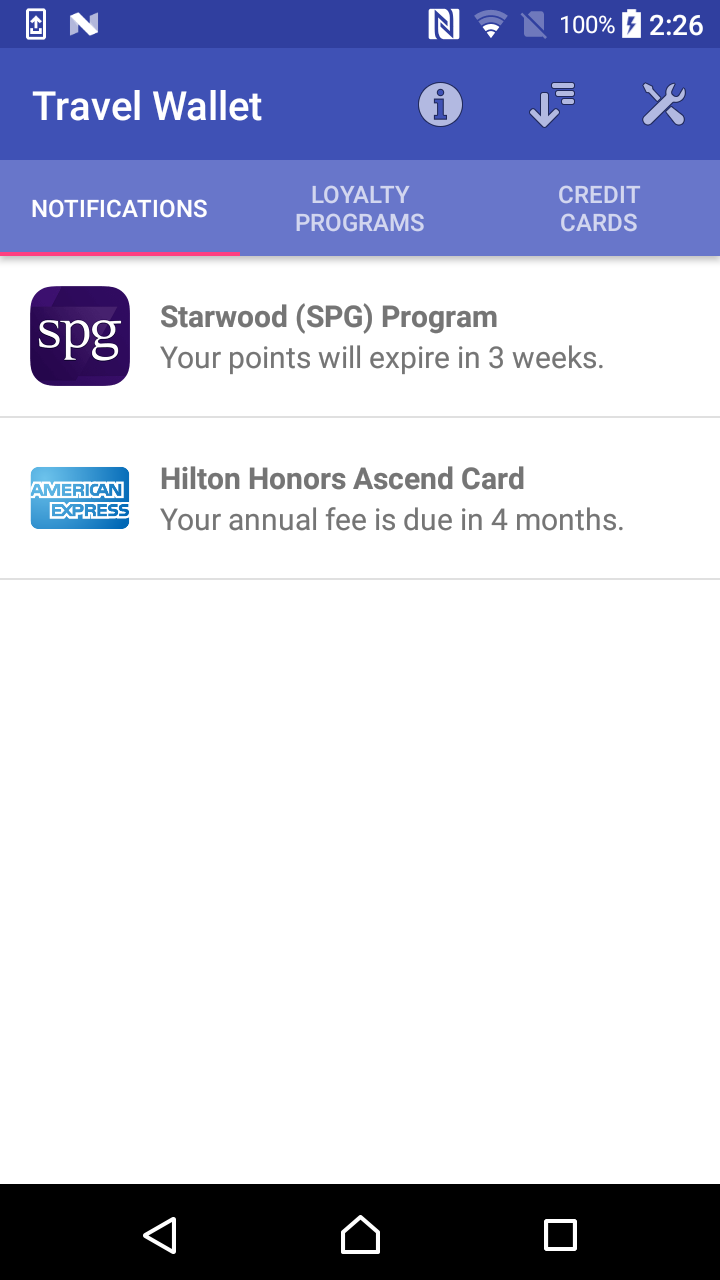
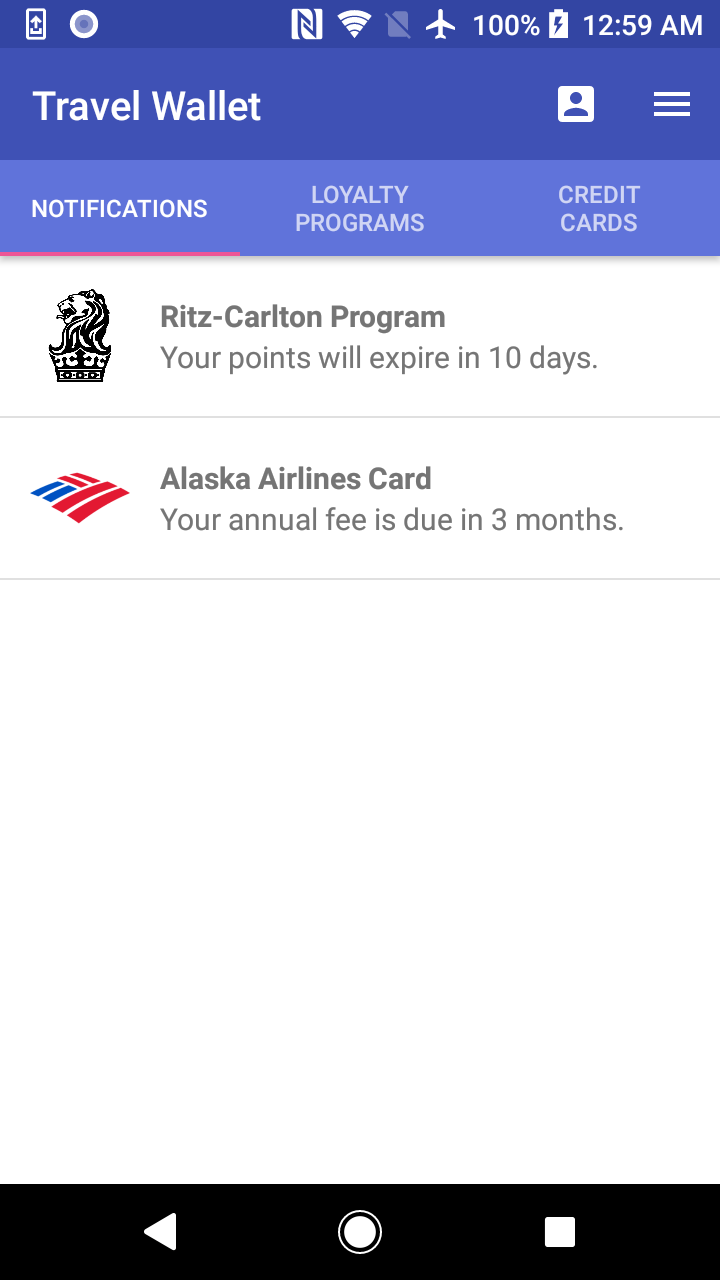
Update screenshots, fix notification month plurals, fix summary next date calculations

diff --git a/app/src/main/java/com/davidlcassidy/travelwallet/Classes/Notification.java b/app/src/main/java/com/davidlcassidy/travelwallet/Classes/Notification.java
@@ -39,20 +39,27 @@ public class Notification {
         int numOfDays = round((date.getTime() - today.getTime()) / (1000 * 60 * 60 * 24));
         if (numOfDays <= 0) {
             message = "Your points have expired.";
+        } else if (0 < numOfDays && numOfDays <= 13) {
+            if (numOfDays == 1) {
+                message = "Your points will expire in 1 day.";
+            } else {
+                message = "Your points will expire in " + String.valueOf(numOfDays) + " days.";
+            }
+        } else if (13 < numOfDays && numOfDays <= 30) {
+            int numOfWeeks = (int) round(numOfDays / 7);
+            if (numOfWeeks == 1) {
+                message = "Your points will expire in 1 week.";
+            } else {
+                message = "Your points will expire in " + String.valueOf(numOfWeeks) + " weeks.";
+            }
+        } else {
+            int numOfMonths = (int) round(numOfDays / 30.4);
+            if (numOfMonths == 1) {
+                message = "Your points will expire in 1 month.";
+            } else {
+                message = "Your points will expire in " + String.valueOf(numOfMonths) + " months.";
+            }
         }
-        else if (0 < numOfDays && numOfDays <= 1) {
-            message = "Your points will expire in 1 day.";
-        }
-        else if (1 < numOfDays && numOfDays <= 13) {
-            message = "Your points will expire in " + String.valueOf(numOfDays) + " days.";
-        }
-        else if (13 < numOfDays && numOfDays <= 32) {
-            message = "Your points will expire in " + String.valueOf(round(numOfDays/7)) + " weeks.";
-        }
-        else {
-            message = "Your points will expire in " + String.valueOf(round(numOfDays/30.4)) + " months.";;
-        }
-
     }
 
     public Notification(CreditCard card) {
@@ -67,20 +74,27 @@ public class Notification {
         int numOfDays = round((date.getTime() - today.getTime()) / (1000 * 60 * 60 * 24));
         if (numOfDays <= 0) {
             message = "Your annual fee is past due.";
+        } else if (0 < numOfDays && numOfDays <= 13) {
+            if (numOfDays == 1) {
+                message = "Your annual fee is due in 1 day.";
+            } else {
+                message = "Your annual fee is due in " + String.valueOf(numOfDays) + " days.";
+            }
+        } else if (13 < numOfDays && numOfDays <= 30) {
+            int numOfWeeks = (int) round(numOfDays / 7);
+            if (numOfWeeks == 1) {
+                message = "Your annual fee is due in 1 week.";
+            } else {
+                message = "Your annual fee is due in " + String.valueOf(round(numOfDays/7)) + " weeks.";
+            }
+        } else {
+            int numOfMonths = (int) round(numOfDays / 30.4);
+            if (numOfMonths == 1) {
+                message = "Your annual fee is due in 1 month.";
+            } else {
+                message = "Your annual fee is due in " + String.valueOf(round(numOfDays/30.4)) + " months.";
+            }
         }
-        else if (0 < numOfDays && numOfDays <= 1) {
-            message = "Your annual fee is due in 1 day.";
-        }
-        else if (1 < numOfDays && numOfDays <= 32) {
-            message = "Your annual fee is due in " + String.valueOf(numOfDays) + " days.";
-        }
-        else if (15 < numOfDays && numOfDays <= 32) {
-            message = "Your annual fee is due in " + String.valueOf(round(numOfDays/7)) + " weeks.";
-        }
-        else {
-            message = "Your annual fee is due in " + String.valueOf(round(numOfDays/30.4)) + " months.";;
-        }
-
     }
 
 	// Sends notification to device if configured in user settings

diff --git a/app/src/main/java/com/davidlcassidy/travelwallet/Activities/MainActivity.java b/app/src/main/java/com/davidlcassidy/travelwallet/Activities/MainActivity.java
@@ -314,6 +314,7 @@ public class MainActivity extends BaseActivity_Main {
                 if (expDate.compareTo(today) > 0 && points > 0) {
                     TextView  programNextExpire = (TextView) v.findViewById(R.id.programNextExpireField);
                     programNextExpire.setText(dateFormat.format(program.getExpirationDate()));
+                    break;
                 }
             }
         }
@@ -341,6 +342,7 @@ public class MainActivity extends BaseActivity_Main {
                 if (annualFeeDate.compareTo(today) > 0) {
                     TextView  cardNextAF = (TextView) v.findViewById(R.id.cardNextAFField);
                     cardNextAF.setText(dateFormat.format(card.getAfDate()));
+                    break;
                 }
             }
         }

diff --git a/CHANGELOG.md b/CHANGELOG.md
@@ -1,8 +1,17 @@
+v1.4.3 : XXXX-XX-XX
+Patch Release
+
+ - Fix summary next date calculations
+ - Fix bug with notification month plurals ("1 months")
+ - Update screenshots
+ 
+
 v1.4.2 : 2018-17-10
 Feature Release
 
- - Add color schemes
+ - Add color schemes in settings
  - Update reference database
+ - Update IAB for dynamic pricing
  - Update developer's notes
 
 v1.4.1 : 2018-10-12
